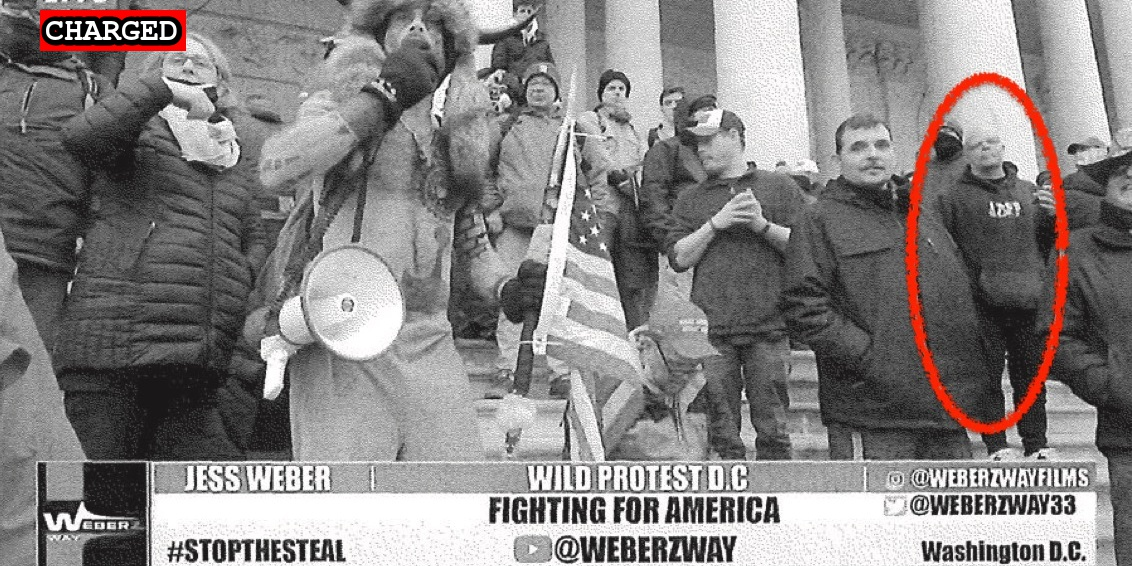
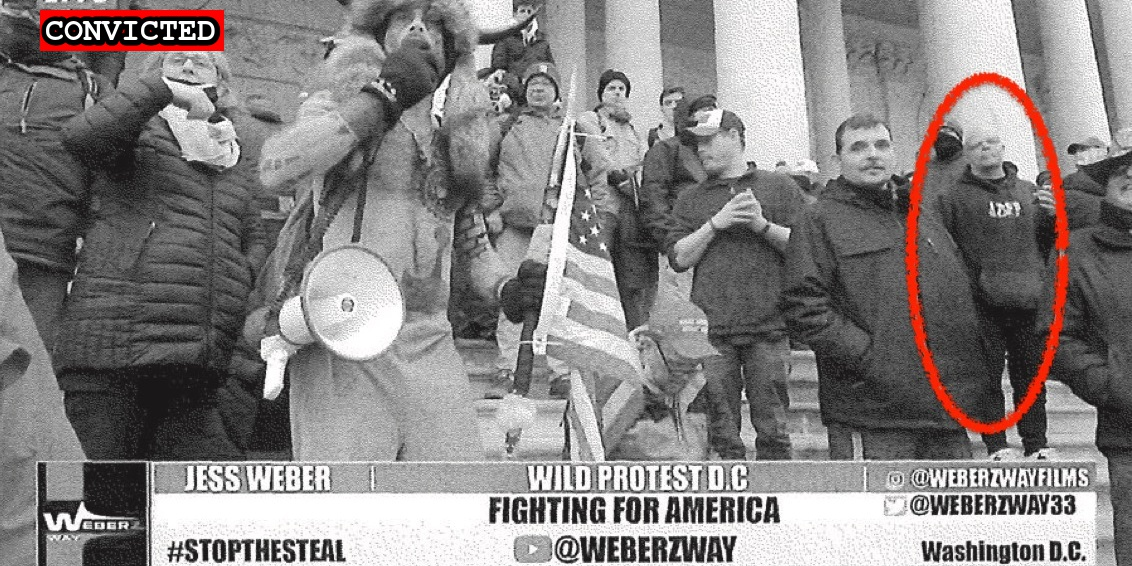
Blakely conviction

Changed region(s): [[0.0309, 0.0, 0.2164, 0.0901]]

diff --git a/docs/_suspects/kevin-blakely.md b/docs/_suspects/kevin-blakely.md
@@ -4,16 +4,16 @@ lastName: Blakely
 hashtag: FigueroBrewingMAGA
 aka:
 residence: Texas
-status: Charged
+status: Convicted
 date: 2021-03-19
 charged: 2021-03-19
 indicted:
-convicted:
+convicted: 2021-10-22
 sentenced:
 dismissed:
 deceased:
-plea_hearing: 2021-10-21
-sentencing:
+plea_hearing: 2021-10-22
+sentencing: 2022-03-24
 age: 55
 occupation:
 affiliations:
@@ -34,8 +34,13 @@ published: true
 caseNumber: 1:21-cr-356
 videos:
 charges:
+  - code: 18 USC § 5104(e)(2)(G)
+    title: Parading, demonstrating or picketing in a Capitol building
+    url: https://www.law.cornell.edu/uscode/text/40/5104
+    felony: false
 sentence:
 ---
+
 - [News Report](https://www.nbcdfw.com/news/local/mckinney-man-linked-to-capitol-riot-using-gps-data-court-document-says/2584604/)
 - [Complaint](https://www.justice.gov/usao-dc/case-multi-defendant/file/1380351/download)
 - [Statement of Facts](https://www.justice.gov/usao-dc/case-multi-defendant/file/1380356/download)
